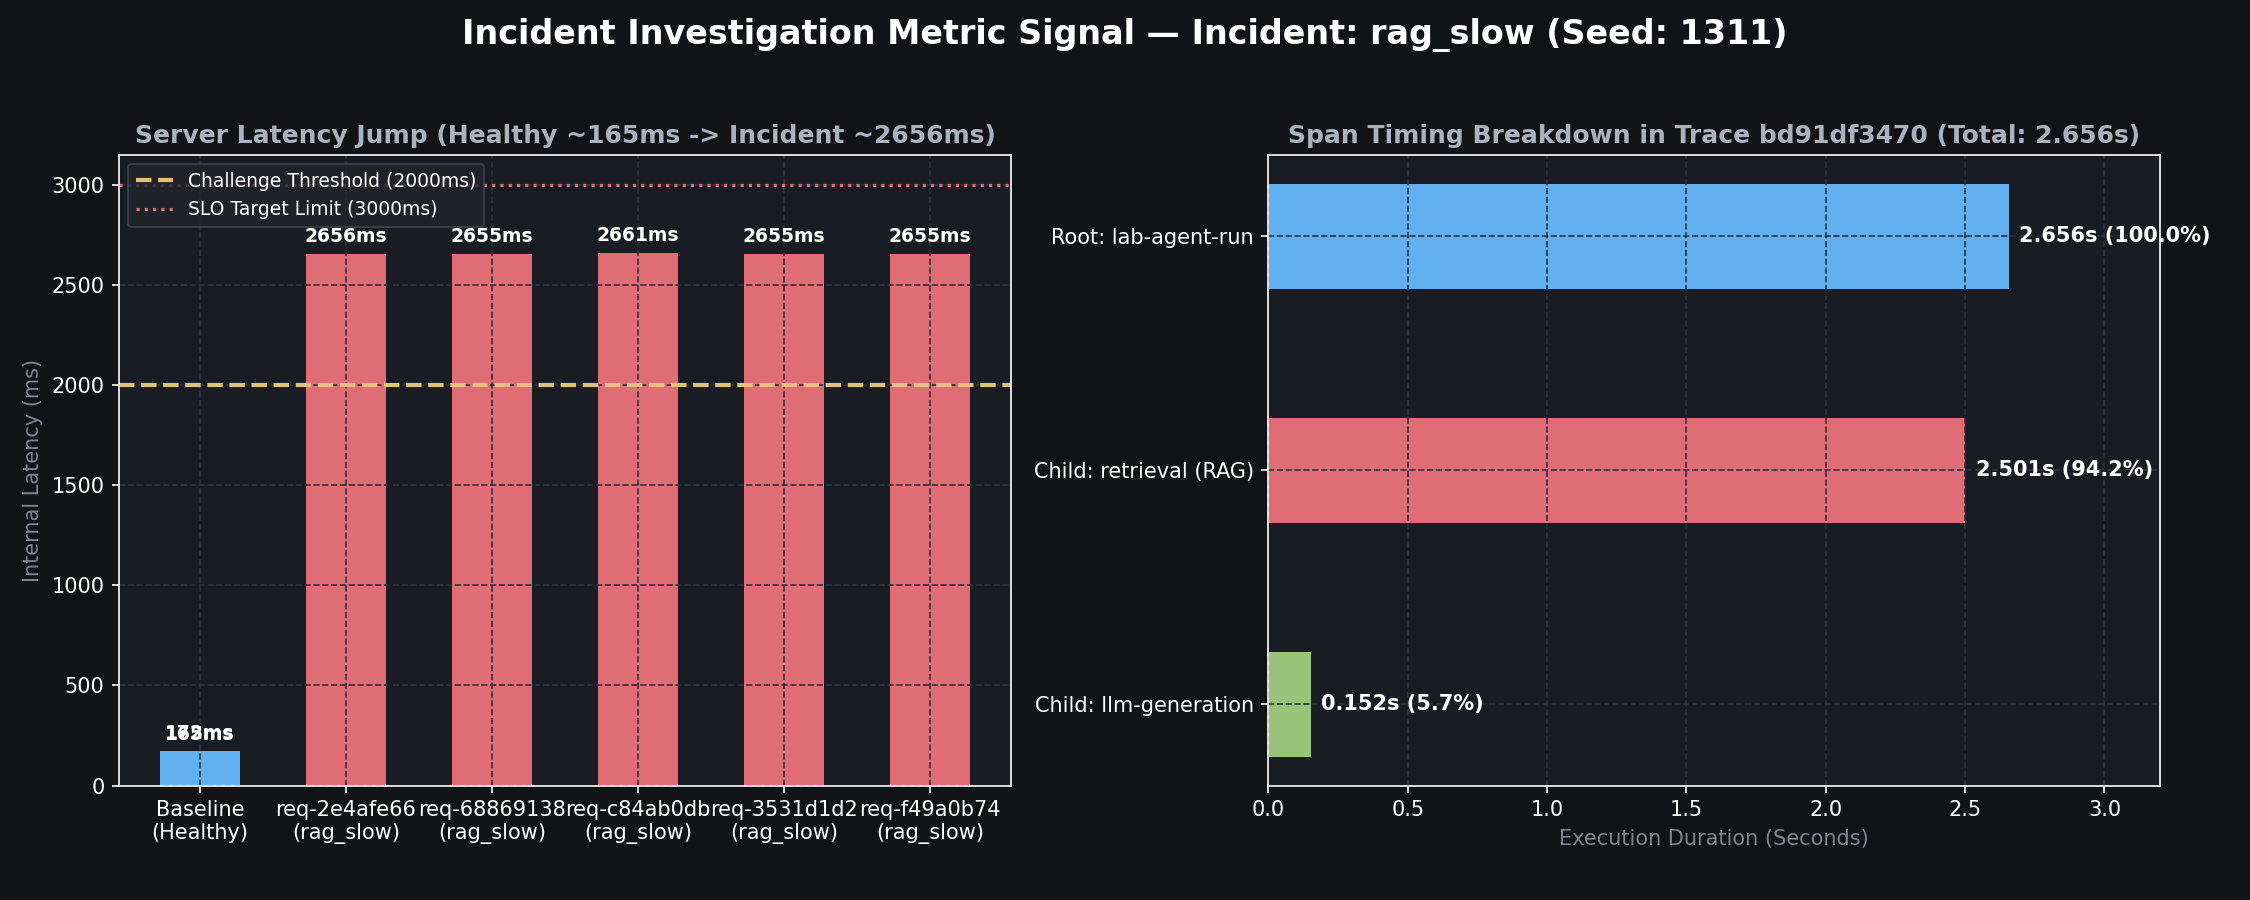
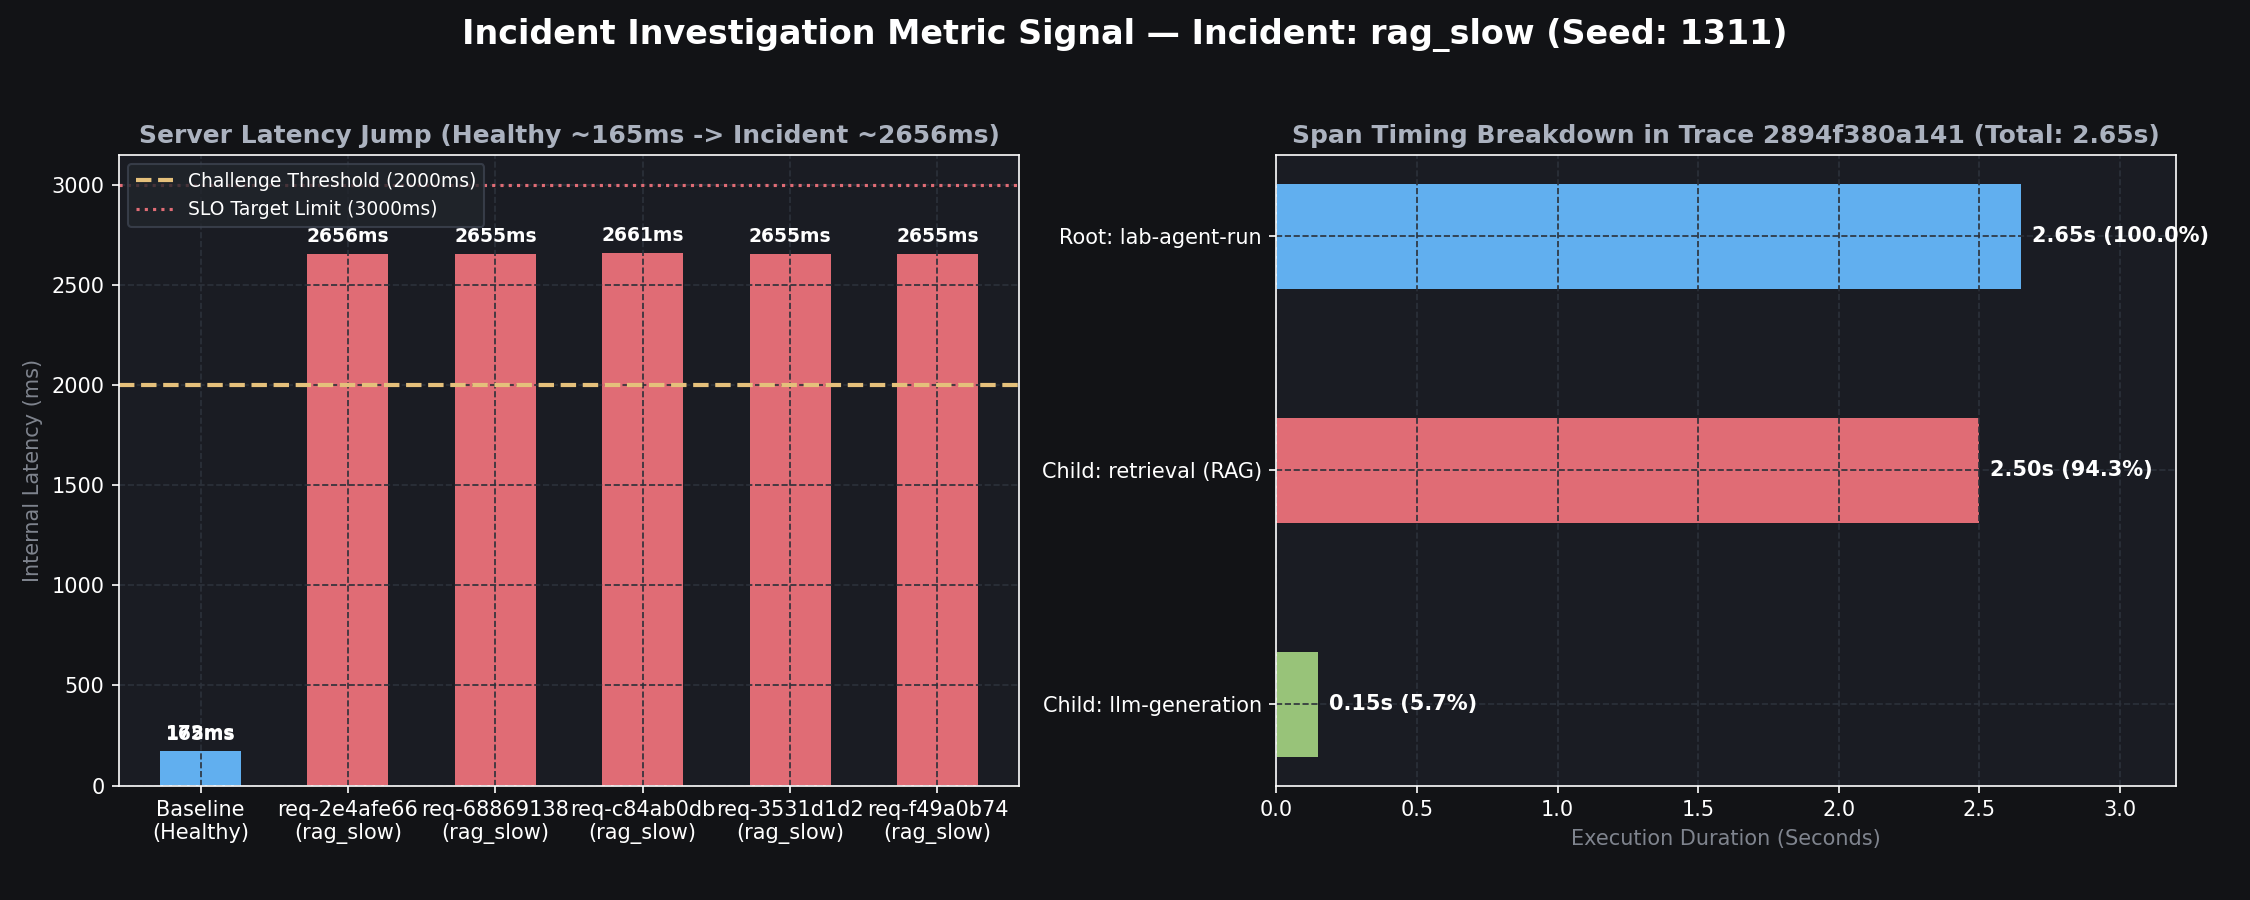
CP4

diff --git a/submission/REPORT.md b/submission/REPORT.md
@@ -8,7 +8,7 @@
 - **MSSV:** 2A202602954
 - **Lớp:** K4-L3A
 - **Repository URL:** https://github.com/naoh-pt/K4-L3-DAY13-PhanTrongHoan-2A202602954-Monitoring-LLMOps
-- **Commit SHA cuối:** `7650282` (CP3 / CP4)
+- **Commit SHA cuối:** `8be59da`
 - **Challenge ID:** `day13-k4-l3a-monitoring-llmops-v1`
 - **Tên project Langfuse cá nhân:** `day13-k4-l3a-2A202602954`
 
@@ -122,19 +122,19 @@
   - Vi phạm nghiêm trọng ngưỡng độ trễ challenge quy định (`latency_threshold_ms: 2000`) và mục tiêu SLO (`3000ms`).
   - Trong khi đó, tỷ lệ lỗi vẫn giữ 0% (error rate = 0%) và điểm chất lượng vẫn đạt ~0.80–0.90, chứng tỏ hệ thống không bị crash mà bị nghẽn hiệu năng nghiêm trọng cục bộ trên tính năng `monitoring`.
 - **Log line và correlation ID liên quan:**
-  - Correlation ID đại diện được chọn để đối chiếu xuyên suốt: `req-2e4afe66` (User hash: `ed72e61117f6`, Session: `k4-l3a-challenge-s05`, Feature: `monitoring`).
-  - Request nhận lúc: `2026-09-29T10:12:31.747947Z`
-  - Response gửi lúc: `2026-09-29T10:12:34.407737Z` (latency: 2656ms)
+  - Correlation ID đại diện được chọn để đối chiếu xuyên suốt: `req-f49a0b74` (User hash: `4570299f37e2`, Session: `k4-l3a-challenge-s04`, Feature: `monitoring`).
+  - Request nhận lúc: `2026-09-29T10:12:42.410132Z`
+  - Response gửi lúc: `2026-09-29T10:12:45.067789Z` (latency: 2655ms)
   - Log line trích xuất từ `data/logs.jsonl`:
     ```json
-    {"service": "api", "latency_ms": 2656, "ttft_ms": 50, "tokens_in": 35, "tokens_out": 97, "cost_usd": 0.00156, "quality_score": 0.8, "tool_name": "retrieval", "tool_success": true, "payload": {"answer_preview": "Starter answer. You should improve this output logic and add better..."}, "event": "response_sent", "env": "dev", "correlation_id": "req-2e4afe66", "session_id": "k4-l3a-challenge-s05", "user_id_hash": "ed72e61117f6", "model": "claude-sonnet-4-5", "feature": "monitoring", "level": "info", "ts": "2026-09-29T10:12:34.407737Z"}
+    {"service": "api", "latency_ms": 2655, "ttft_ms": 50, "tokens_in": 36, "tokens_out": 110, "cost_usd": 0.001758, "quality_score": 0.9, "tool_name": "retrieval", "tool_success": true, "payload": {"answer_preview": "Starter answer. You should improve this output logic and add better quality chec..."}, "event": "response_sent", "env": "dev", "correlation_id": "req-f49a0b74", "session_id": "k4-l3a-challenge-s04", "user_id_hash": "4570299f37e2", "model": "claude-sonnet-4-5", "feature": "monitoring", "level": "info", "ts": "2026-09-29T10:12:45.067789Z"}
     ```
 - **Trace ID và span gây ảnh hưởng:**
-  - Trace ID tương ứng trên Langfuse Cloud: `bd91df34703408c8eee4a58dd33295c1` (chứa metadata `correlation_id: req-2e4afe66`).
+  - Trace ID tương ứng trên Langfuse Cloud: `2894f380a141bb94edc29b1482fa2f35` (chứa metadata `correlation_id: req-f49a0b74`).
   - Phân rã thời gian thực thi của các span (Span timing breakdown):
-    + Root span `lab-agent-run`: **2.656s** (100% thời gian agent)
-    + Child span `retrieval`: **2.501s** (chiếm tới **94.2%** tổng thời gian thực thi của trace!)
-    + Child span `llm-generation`: **0.152s** (chỉ chiếm 5.7%, tốc độ sinh token của LLM hoàn toàn bình thường)
+    + Root span `lab-agent-run`: **2.65s** (100% thời gian agent)
+    + Child span `retrieval`: **2.50s** (chiếm tới **94.3%** tổng thời gian thực thi của trace!)
+    + Child span `llm-generation`: **0.15s** (chỉ chiếm 5.7%, tốc độ sinh token của LLM hoàn toàn bình thường)
   - Span gây chậm trực tiếp chính là child span `retrieval` (bước tra cứu RAG vector/tài liệu).
 - **Root cause:**
   - Sự cố mô phỏng `rag_slow` đã can thiệp vào tầng tri thức/retriever, gây ra độ trễ nhân tạo 2.5 giây cho mỗi lần gọi hàm `retrieve()` đối với feature `monitoring`. Khi có tải đồng thời (5 concurrent requests), hàng đợi xử lý bị dồn ứ khiến độ trễ tổng thể từ phía client tăng vọt lên hơn 13 giây.
